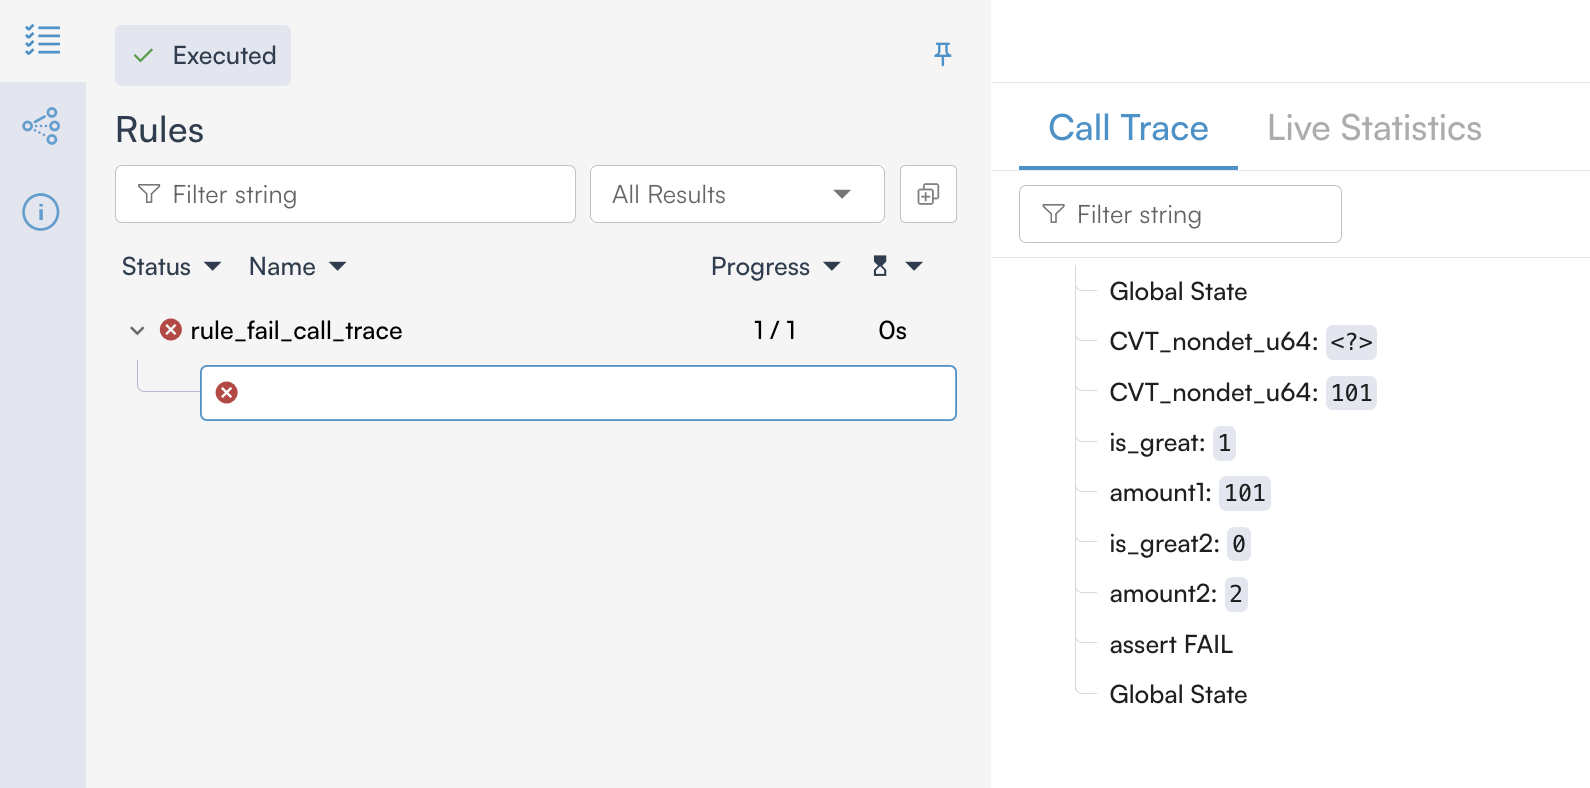
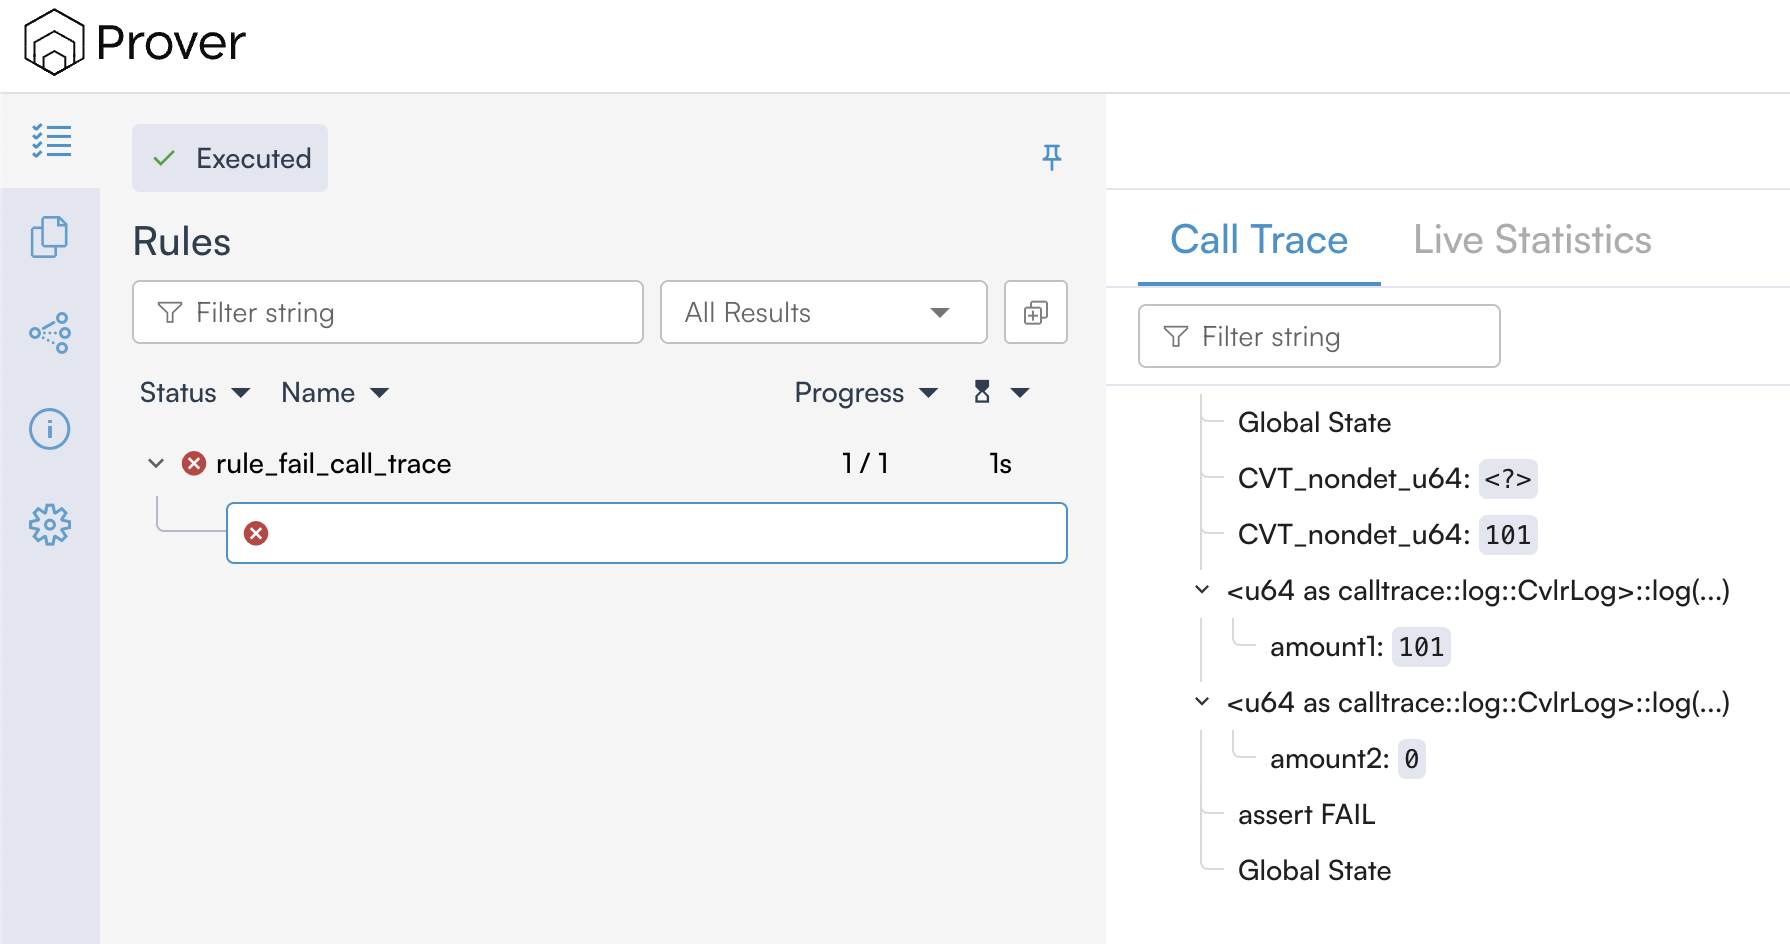
Fixes to Solana output interpretation

diff --git a/docs/solana/output.md b/docs/solana/output.md
@@ -8,17 +8,17 @@ This guide explains how to interpret verification results from the Certora Prove
 
 A verification task consists of one or more rules that verify specific properties of your Solana program. Each rule contains at least one of:
 
-* Assert statements `cvt_assert!`
-* Satisfy statements `cvt_satisfy!`
+* Assert statements `cvlr_assert!`
+* Satisfy statements `cvlr_satisfy!`
 
 ## Understanding Rule Results
 
 ### Assert Statements
 
-When using `cvt_assert`, the prover attempts to prove that the assertion holds true for all possible program states. For example:
+When using `cvlr_assert`, the prover attempts to prove that the assertion holds true for all possible program states. For example:
 
 ```rust
-cvt_assert!(amount > 10);
+cvlr_assert!(amount > 10);
 ```
 
 The prover will return one of two results:
@@ -33,10 +33,10 @@ The prover will return one of two results:
 
 ### Satisfy Statements
 
-`cvt_satisfy` statements verify that a certain condition is reachable. For example:
+`cvlr_satisfy` statements verify that a certain condition is reachable. For example:
 
 ```rust
-cvt_satisfy!(amount > 10)
+cvlr_satisfy!(amount > 10);
 ```
 
 Results can be:
@@ -62,55 +62,40 @@ The call trace provides detailed information about the execution path. Here's ho
 * Represent the starting state which leads to a violation
 * Format: `CVT_nondet_u64: <value>`
 
+#### Value of the Variables
+
+* The values of variables can be printed using the `clog!` macro
+* Example: `let x: u64 = nondet(); clog!(x);`
+
 #### Method Calls
 
 * Automatically logged
 * Show the sequence of function calls
-* To see parameter values, you need to munge the original code with CVT-style print statements
+* To see parameter values, you need to change the original code with Certora's
+  `cgdb!` print macros
 
-#### Variable Values
+#### Let's look at a concrete example
 
-Printed using the special macro `cvt_cex_print_u64!()`. For named printing, you can add the following macro to your `utils.rs`, this will print the name of the variable your passing.
-
-```rust
-macro_rules! nice_print {
-    ($e:expr) => {
-        cvt_cex_print_u64!($e, $e)
-    };
-}
-pub(crate) use nice_print;
-```
-
-[Example](https://prover.certora.com/output/696612/daa2d29059234c459ab0d2c7f6784cde?anonymousKey=cddfa55db76600ea920eea729a454cde61fe278e )
-
-#### Let's look at a concrete example_:
+[Prover output](https://prover.certora.com/output/1324651/741e8ee5a5754c1ab8db0aa36be39e4d?anonymousKey=ca602f5139de3bfbae17eb1fbf9c11145be3a912)
 
 ```rust
-pub fn is_greater_than_100(amount: u64) -> bool {
-    amount > 100
-}
-
 #[rule]
 pub fn rule_fail_call_trace() {
     let amount1: u64 = nondet();
     let amount2: u64 = nondet();
 
-    let is_great = is_greater_than_100(amount1);
-    cvt_assume!(is_great);
-    let is_great2 = is_greater_than_100(amount2);
-    cvt_assume!(amount2 != 10);
+    cvlr_assume!(amount1 > 100);
+    cvlr_assume!(amount2 != 10);
 
-    nice_print!(is_great);
-    nice_print!(amount1);
-    nice_print!(is_great2);
-    nice_print!(amount2);
+    clog!(amount1);
+    clog!(amount2);
 
-    cvt_assert!(amount1 < 100);
-    cvt_assert!(amount2 < 100);
+    cvlr_assert!(amount1 < 100);
+    cvlr_assert!(amount2 < 100);
 }
 ```
 
-When this rule fails, the prover generates a counterexample that looks like
+When this rule fails, the Prover generates a counterexample that looks like
 this:
 
 ![A call trace example](./img/call_trace_detail.png)
@@ -119,21 +104,19 @@ this:
 
    1. **Nondet Values**: 
 
-        * The prover chose `101` for `amount1` and implicitly `2` for `amount2`
+        * The Prover chose `101` for `amount1` and implicitly `0` for `amount2`
         * These values are chosen to demonstrate the violation of our assertions
         * `<?>` means that the value is not important for the counterexample 
 
    2. **Variable States**:
 
-        * `is_great` is assumed, thus `1` (true) as `amount1` (101) is indeed greater than 100
-        * `amount1` is 101, which satisfies our assumption `cvt_assume!(is_great)`
-        * `is_great2` is `0` (false) because `amount2` (2) is not greater than 100
-        * `amount2` is 2, which satisfies our assumption `cvt_assume!(amount2 != 10)`
+        * `amount1` is 101, which satisfies our assumption `cvlr_assume!(amount1 > 100)`
+        * `amount2` is 0, which satisfies our assumption `cvlr_assume!(amount2 != 10)`
 
    3. **Assertion Failure**:
 
-        * The assertion `cvt_assert!(amount1 < 100)` fails because we have a contradiction:
-            * We assumed `is_great` is true, which means `amount1 > 100`
+        * The assertion `cvlr_assert!(amount1 < 100)` fails because we have a contradiction:
+            * We previously assumed `amount1 > 100`
             * But then we assert `amount1 < 100`
         * This is impossible to satisfy, hence the counterexample
 
@@ -148,7 +131,7 @@ To ensure rules aren't passing vacuously (due to contradictory assumptions), add
 }
 ```
 
-This adds an implicit `cvt_assert!(false)` at the end of each rule. If this assertion is unreachable, it confirms that:
+This adds an implicit `cvlr_assert!(false)` at the end of each rule. If this assertion is unreachable, it confirms that:
 
 1. Your assumptions aren't contradictory
 2. The rule's success is meaningful
@@ -164,9 +147,8 @@ See [Rule Sanity Checks](./sanity.md) for more details.
 ## Best Practices
 
 1. Always enable rule sanity checking in your configuration
-2. Use `nice_print!` macro for clearer counterexample analysis
-3. Review full call traces when investigating failures
-4. Validate counterexamples against your program's expected state space
+2. Review full call traces when investigating failures
+3. Validate counterexamples against your program's expected state space
 
 ## Advanced Topics
 
@@ -175,62 +157,7 @@ See [Rule Sanity Checks](./sanity.md) for more details.
 When analyzing counterexamples, consider:
 
 1. Initial state feasibility: Is the starting state a reachable state for the code you're analyzing?
-2. Transaction sequence validity: Does the computation path make sense, did you overlook a certain scenario?
-3. State transition legitimacy: Do the values throughout the computation match? Are the parameters to your rule changing as expected?
+2. Transaction sequence validity: does the computation path make sense, did you overlook a certain scenario?
+3. State transition legitimacy: do the values throughout the computation match? Are the parameters to your rule changing as expected?
 
 If any seem impossible in your actual program, the counterexample might be due to over-approximation.
-
-
-### The TAC Dump
-![Where to find the dump](./img/dumpl.png)
-
-The dump output shows the underlying verification conditions in the prover's
-intermediate representation (TAC). It provides detailed insight into how the prover
-interprets and processes your code.
-
-#### Example Dump
-
-[Example](https://prover.certora.com/output/696612/daa2d29059234c459ab0d2c7f6784cde/Report-rule_fail_call_trace-example1.html?anonymousKey=cddfa55db76600ea920eea729a454cde61fe278e)
-
-For our previous example rule, here's the corresponding dump:
-![An example dump](./img/dump.png)
-
-Let's analyze this dump line by line:
-
-#### Initialization (Lines 0-3)
-
-* `R0 = havoc ()`: Initializes the first register with a nondeterministic value
-* `R1 = havoc (0x200002000)` and `assume R1==0x200002000`: Sets up memory addressing
-
-#### First Variable Setup (Lines 4-6)
-
-* `R2 = havoc (0x65)`: Sets `amount1` to `0x65` (101 in decimal)
-* `assume (R2>=0x65)&&(R2<=2^64 - 1)`: Constrains `amount1` to be ≥ 101 and within u64 bounds
-* Prints `amount1` value via `CexPrintValues`
-
-#### Second Variable Setup (Lines 8-10)
-
-* `R3 = havoc (0x2)`: Sets `amount2` to `0x2` (2 in decimal)
-* `assume (R3<=0x9)||((R3>=0xb)&&(R3<=2^64 - 1))`: Implements `amount2 != 10` constraint
-* Prints `amount2` value
-
-#### Boolean Operations (Lines 11-16)
-
-* `R4 = 0x1`: Sets `is_great` to true (1)
-* `R6 = R3<=0x64 ? 0x0 : 0x1`: Computes `is_great2` based on `amount2 <= 100`
-* Various print commands show the values of variables
-
-#### Assertion Checking (Lines 17-19)
-
-* `B7 = false`: The assertion `amount1 < 100` evaluates to false
-* Final `assert false`: Indicates the failure of the verification condition
-
-Understanding the dump can help you:
-    * Debug complex verification conditions
-    * Understand how the prover interprets your assumptions
-    * Identify where contradictions occur in your rules
-
-The Rule Report allows to show values in decimals by using the convert to dec option on the upper right corner. 
-The dump uses hexadecimal values (0x prefix) and shows the underlying register operations. Converting these to decimal can help match them with your original code.
-
-The dump format may vary depending on the prover version and configuration. Focus on understanding the general structure rather than memorizing specific formats.
